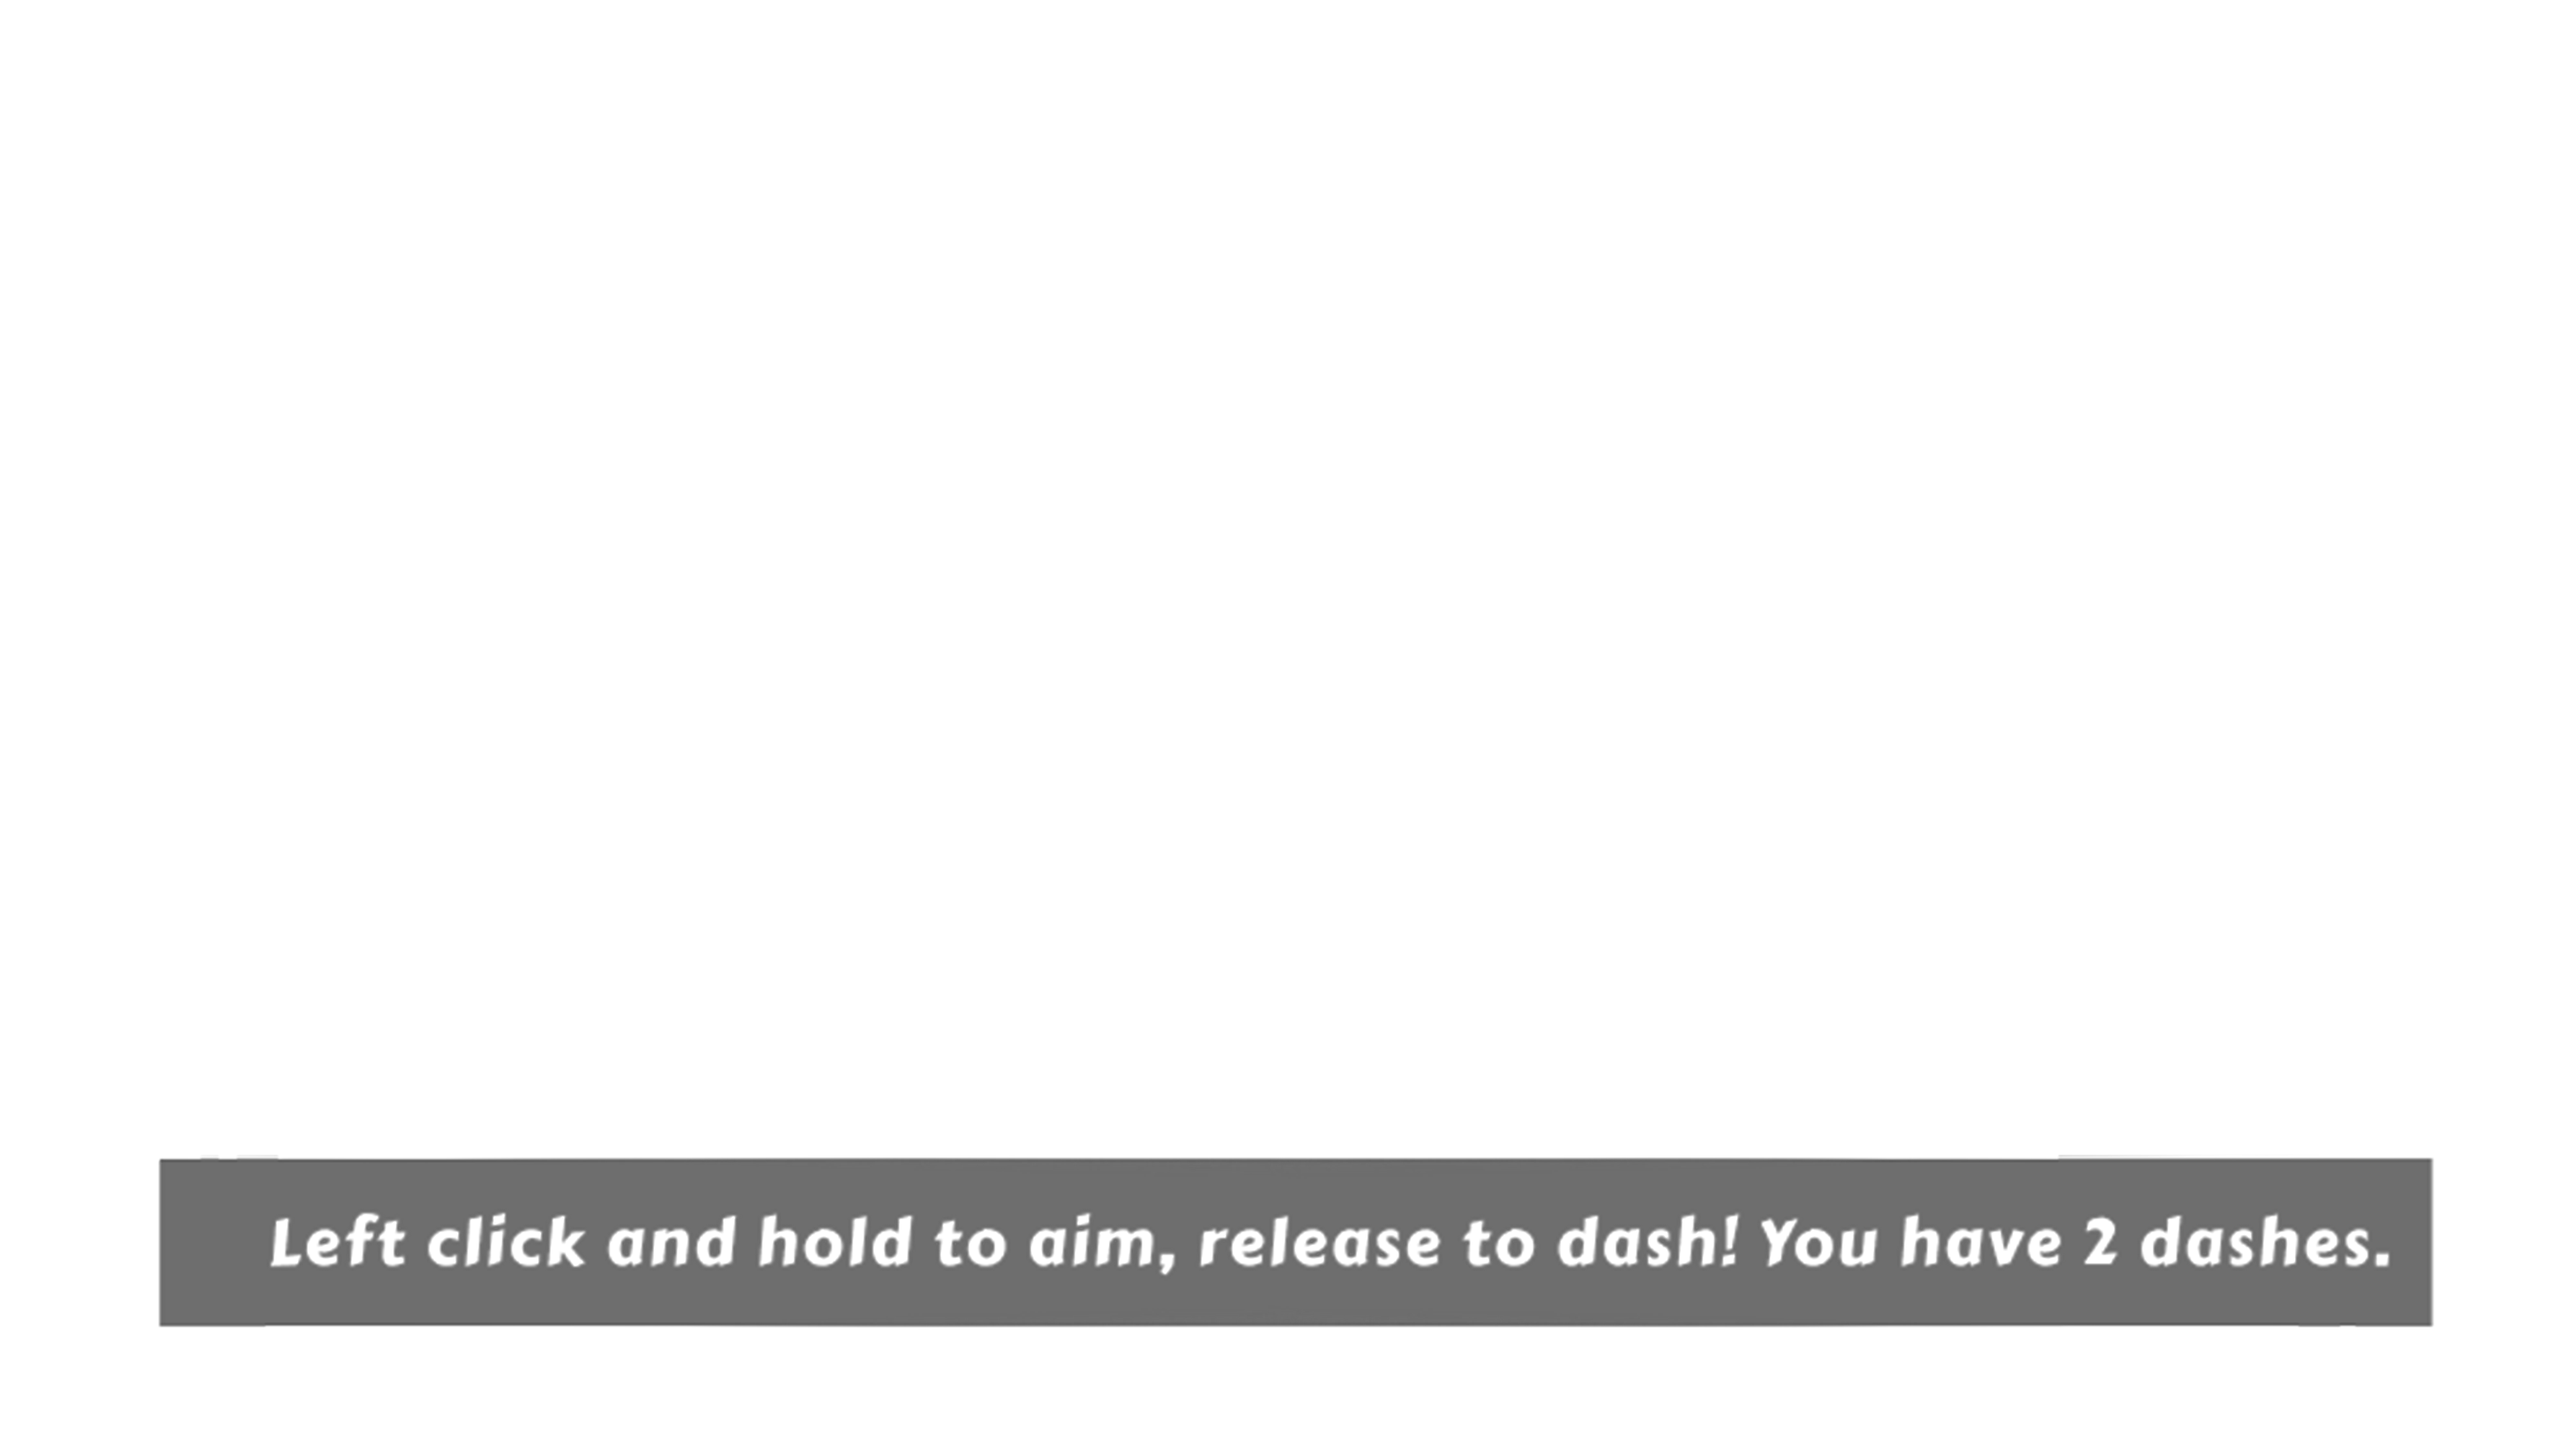
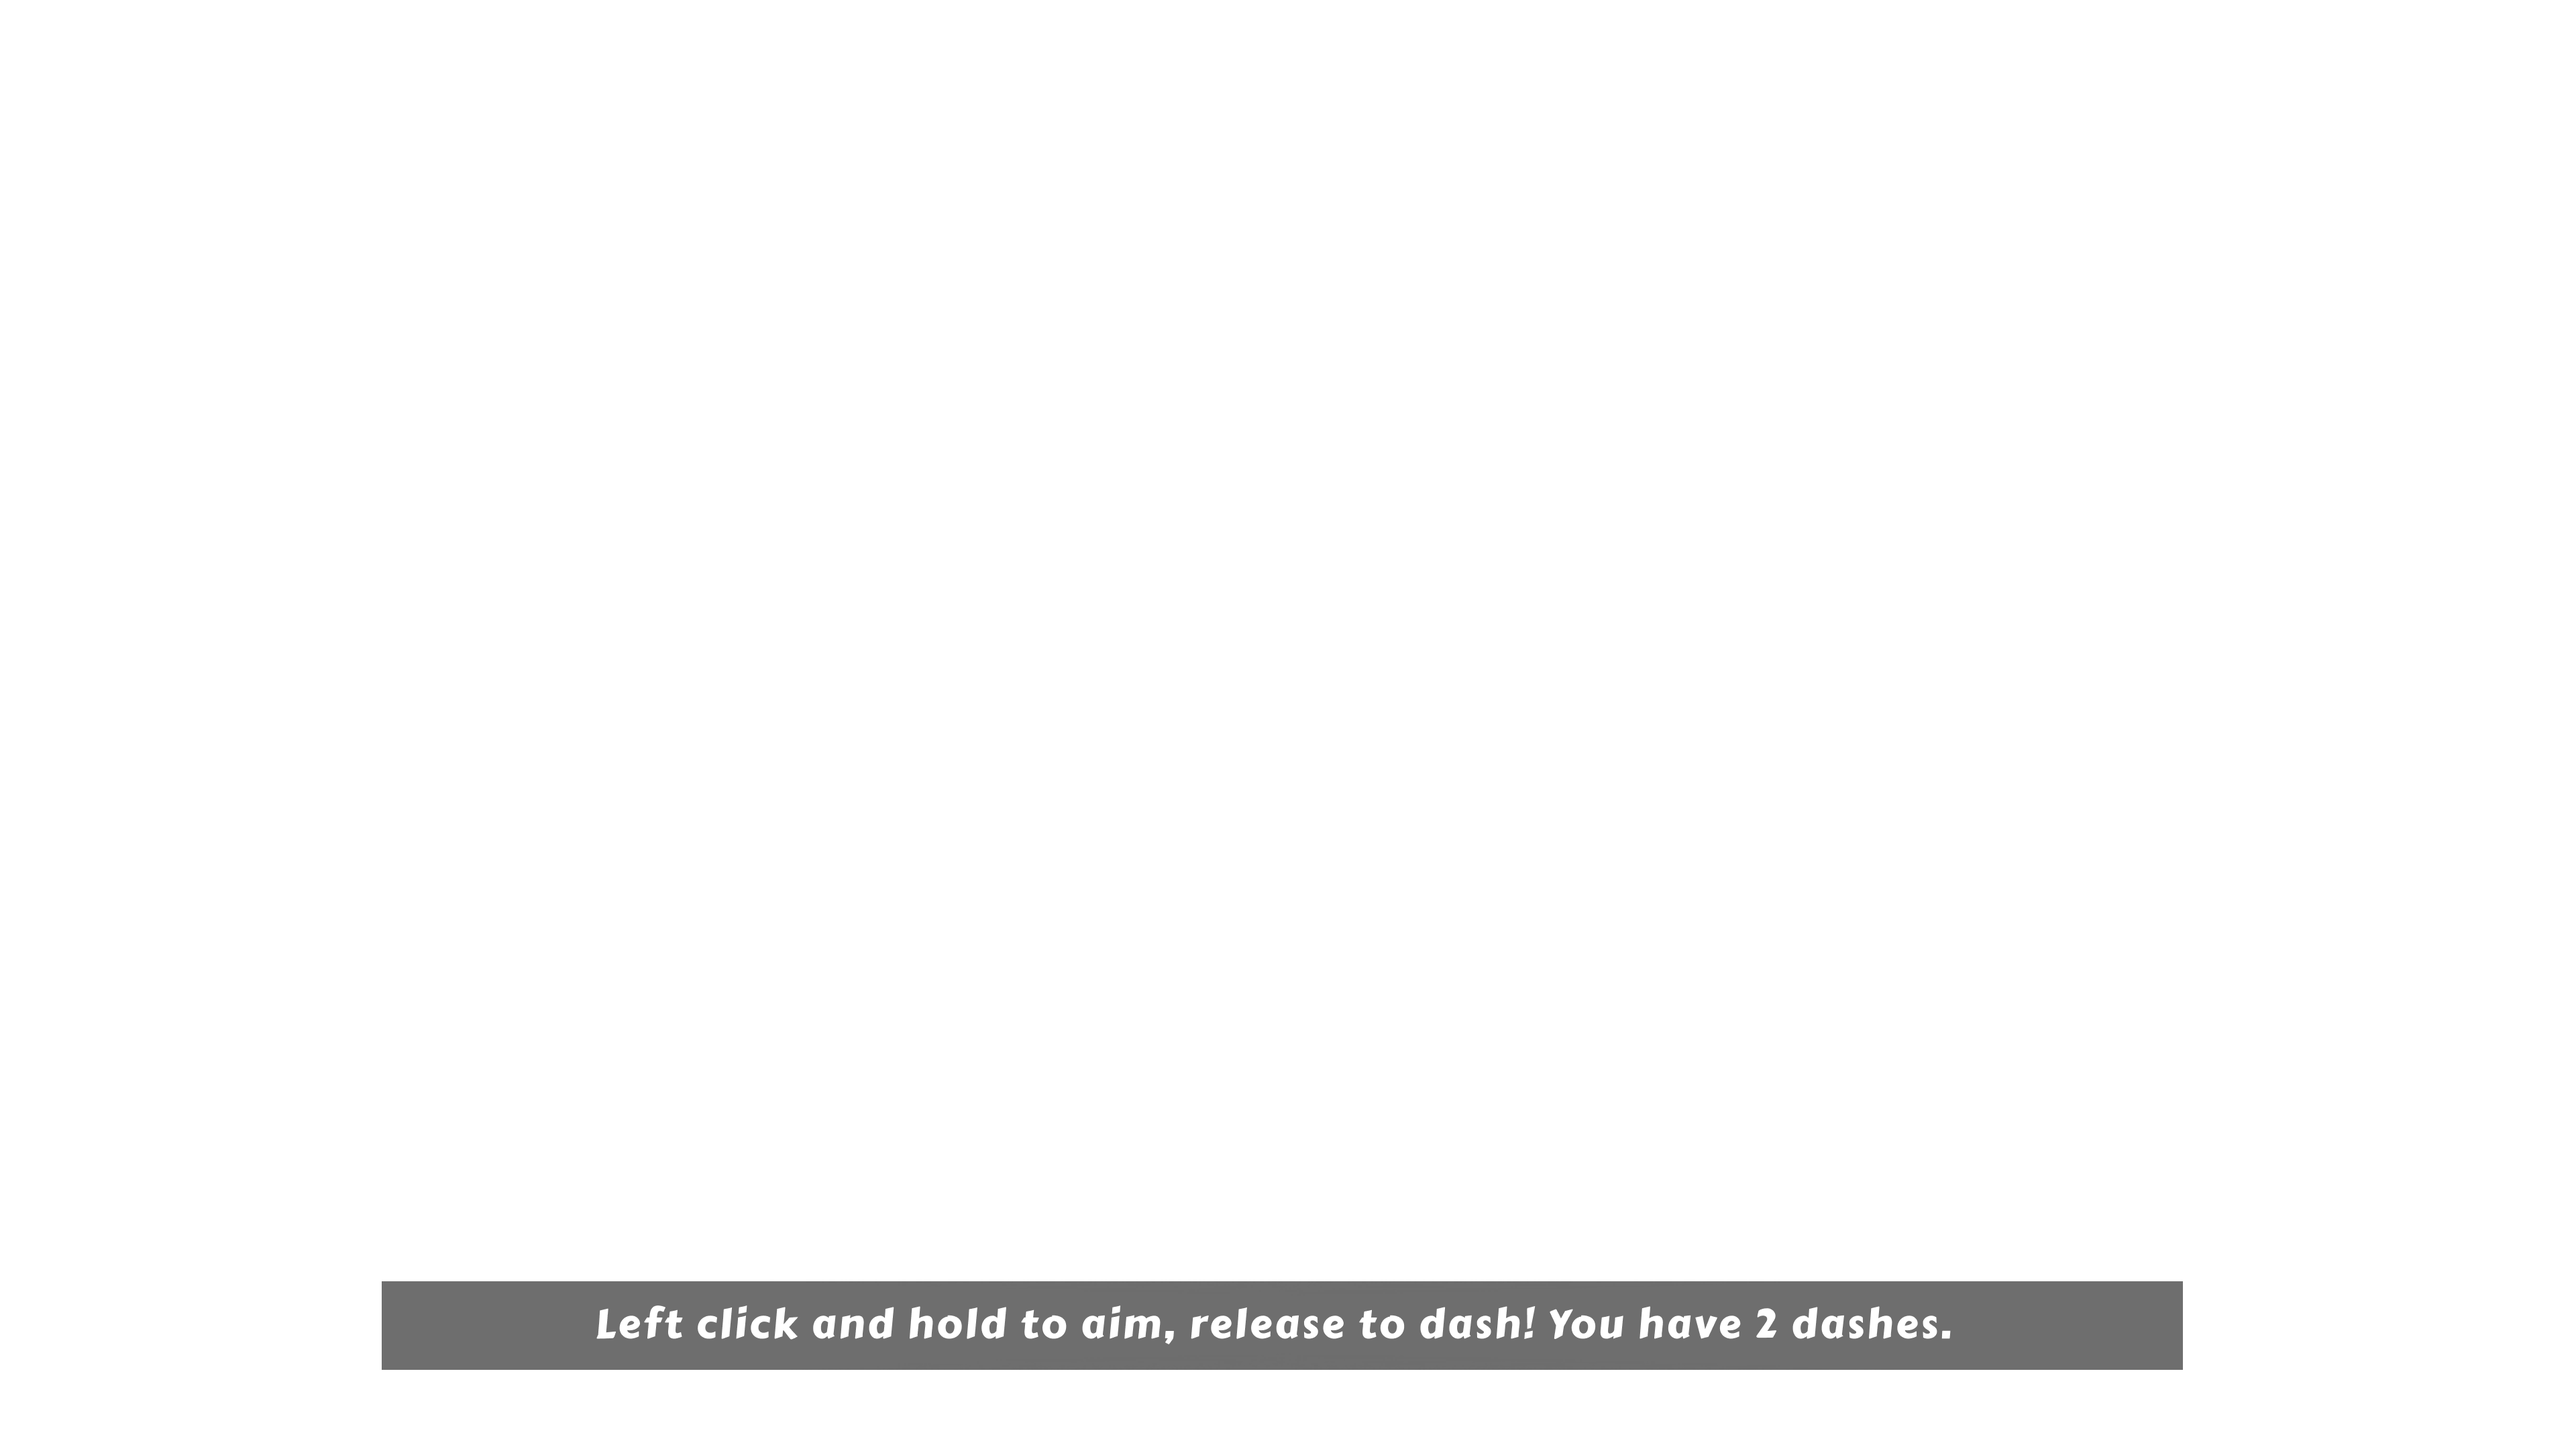
added new tutorial cards

Changed region(s): [[0.0625, 0.7755, 0.9688, 0.9616]]

diff --git a/Prototype/core/src/edu/cornell/gdiac/tempus/tempus/TutorialController.java b/Prototype/core/src/edu/cornell/gdiac/tempus/tempus/TutorialController.java
@@ -30,7 +30,6 @@ public class TutorialController extends LevelController {
 
     private TextureRegionDrawable tutorial_card;
     private boolean first;
-    private TextureRegionDrawable press_h_card;
     Table helpCard;
 
     @Override
@@ -53,7 +52,7 @@ public class TutorialController extends LevelController {
     public TutorialController(String json) {
         super(json);
         isHelp = false;
-        beginDisplay = 150;
+        //beginDisplay = 150;
         isTutorial = true;
 
     }
@@ -109,8 +108,8 @@ public class TutorialController extends LevelController {
                 new TextureRegion(new Texture(Gdx.files.internal("textures/gui/pause_exit_button.png"))));
 
 
-        press_h_card = new TextureRegionDrawable(
-                new TextureRegion(new Texture(Gdx.files.internal("tutorial/helpcard.png"))));
+//        press_h_card = new TextureRegionDrawable(
+//                new TextureRegion(new Texture(Gdx.files.internal("tutorial/helpcard.png"))));
 
         pauseButtonContainer = new Container<>();
         pauseButtonContainer.setBackground(pauseBG);
@@ -164,9 +163,7 @@ public class TutorialController extends LevelController {
         tutorialCard.setVisible(false);
 
         helpCard = new Table();
-        if(first){
-            helpCard.setBackground(press_h_card);
-        }
+
         tableStack.add(table);
         tableStack.add(pauseButtonContainer);
         tableStack.add(tutorialCard);
@@ -182,9 +179,7 @@ public class TutorialController extends LevelController {
         stage.getCamera().update();
         stage.getViewport().apply();
 
-        if(first){
-            showTutorial();
-        }
+        showTutorial();
 
     }
 
@@ -200,14 +195,14 @@ public class TutorialController extends LevelController {
     public boolean preUpdate(float dt) {
         failed = false;
 
-        if(first){
-            if(beginDisplay >0){
-                beginDisplay--;
-                return false;
-            }else {
-                helpCard.setVisible(false);
-            }
-        }
+//        if(first){
+//            if(beginDisplay >0){
+//                beginDisplay--;
+//                return false;
+//            }else {
+//                helpCard.setVisible(false);
+//            }
+//        }
 
         if(InputController.getInstance().didHelp()){
             isHelp = !isHelp;
@@ -218,11 +213,11 @@ public class TutorialController extends LevelController {
     @Override
     public void update(float dt) {
 
-        if (isHelp) {
-            showTutorial();
-        } else {
-            unshowTutorial();
-        }
+//        if (isHelp) {
+//            showTutorial();
+//        } else {
+//            unshowTutorial();
+//        }
 
         avatar.setLives(5);
 

diff --git a/Prototype/core/src/edu/cornell/gdiac/tempus/tempus/LevelController.java b/Prototype/core/src/edu/cornell/gdiac/tempus/tempus/LevelController.java
@@ -835,20 +835,10 @@ public class LevelController extends WorldController {
 		// test slow down time
 		if (timeFreeze) {
 			world.step(WORLD_STEP / 8, WORLD_VELOC, WORLD_POSIT);
-			// for (Obstacle o : objects) {
-			// if (o instanceof Enemy) {
-			// ((Enemy) o).slowCoolDown(true);
-			// }
-			// }
 			enemyController.slowCoolDown(true);
 
 		} else {
 			world.step(WORLD_STEP, WORLD_VELOC, WORLD_POSIT);
-			// for (Obstacle o : objects) {
-			// if (o instanceof Enemy) {
-			// ((Enemy) o).slowCoolDown(false);
-			// }
-			// }
 			enemyController.slowCoolDown(false);
 		}
 		avatar.decImmortality();
